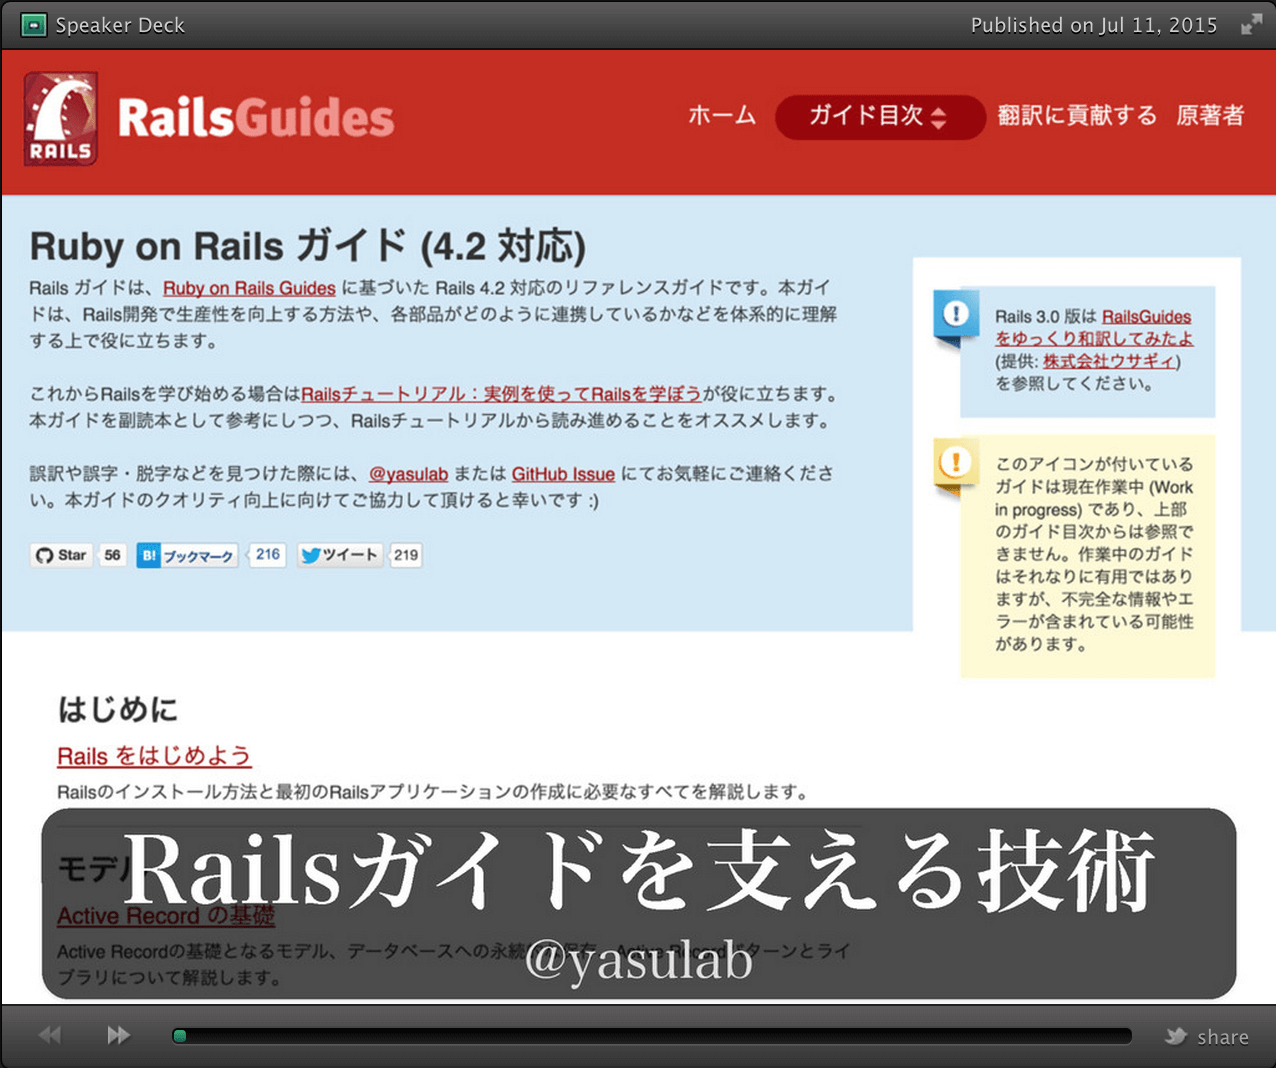
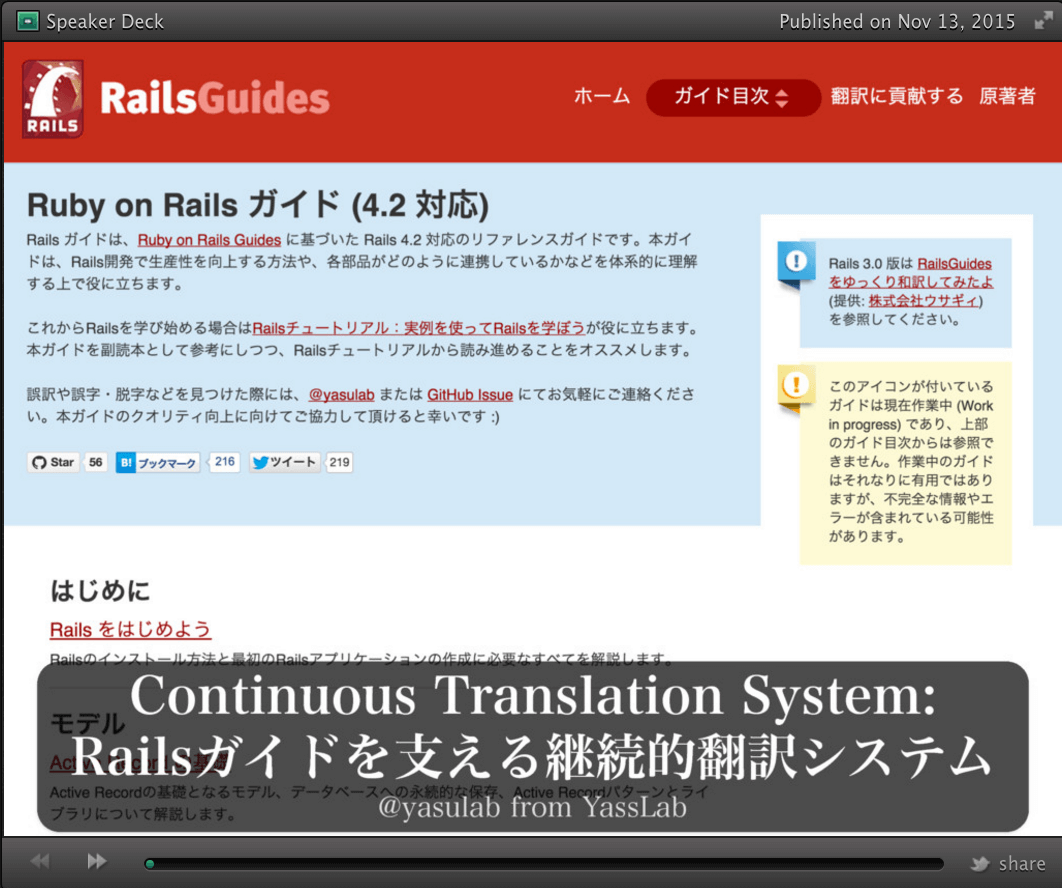
Update slides and add some notes to show current status

diff --git a/README.md b/README.md
@@ -23,15 +23,15 @@ http://railstutorial.jp/
 
 本ガイドの品質向上に向けて、皆さまのご協力が得られれば幸いです。よろしくお願い致します。
 
-## 継続的翻訳システムについて
+## 継続的翻訳システムについて (段階的に移行中)
 
-[![Railsガイドを支える技術 - SpeakerDeck](https://raw.githubusercontent.com/yasslab/railsguides.jp/japanese/images/continuous_translation_system.png)](https://speakerdeck.com/yasulab/railsgaidowozhi-eruji-shu-30fen-ban)
+[![Railsガイドを支える継続的翻訳システム - SpeakerDeck](https://raw.githubusercontent.com/yasslab/railsguides.jp/japanese/images/continuous_translation_system.png)](https://speakerdeck.com/yasulab/continuous-translation-system-at-rwc2015)
 
 本リポジトリの仕組みについては、上記のスライドで詳しく解説されています。    
 本リポジトリにPull Requestを送付したい方は、下記の「翻訳の流れ」を参照してください。    
 (特に④と⑤を見ておくとよいかもしれません)
 
-### 翻訳の流れ
+### 翻訳の流れ (現在の構成)
 
 ![翻訳の流れ](https://raw.githubusercontent.com/yasslab/railsguides.jp/japanese/images/flow-of-translation.png)
 参考: [[翻訳]Ruby on Rails 4.1リリース前にアップグレードガイドを先行翻訳した & 同じ翻訳を2回しないで済むようにした](http://techracho.bpsinc.jp/hachi8833/2014_03_28/16037)
